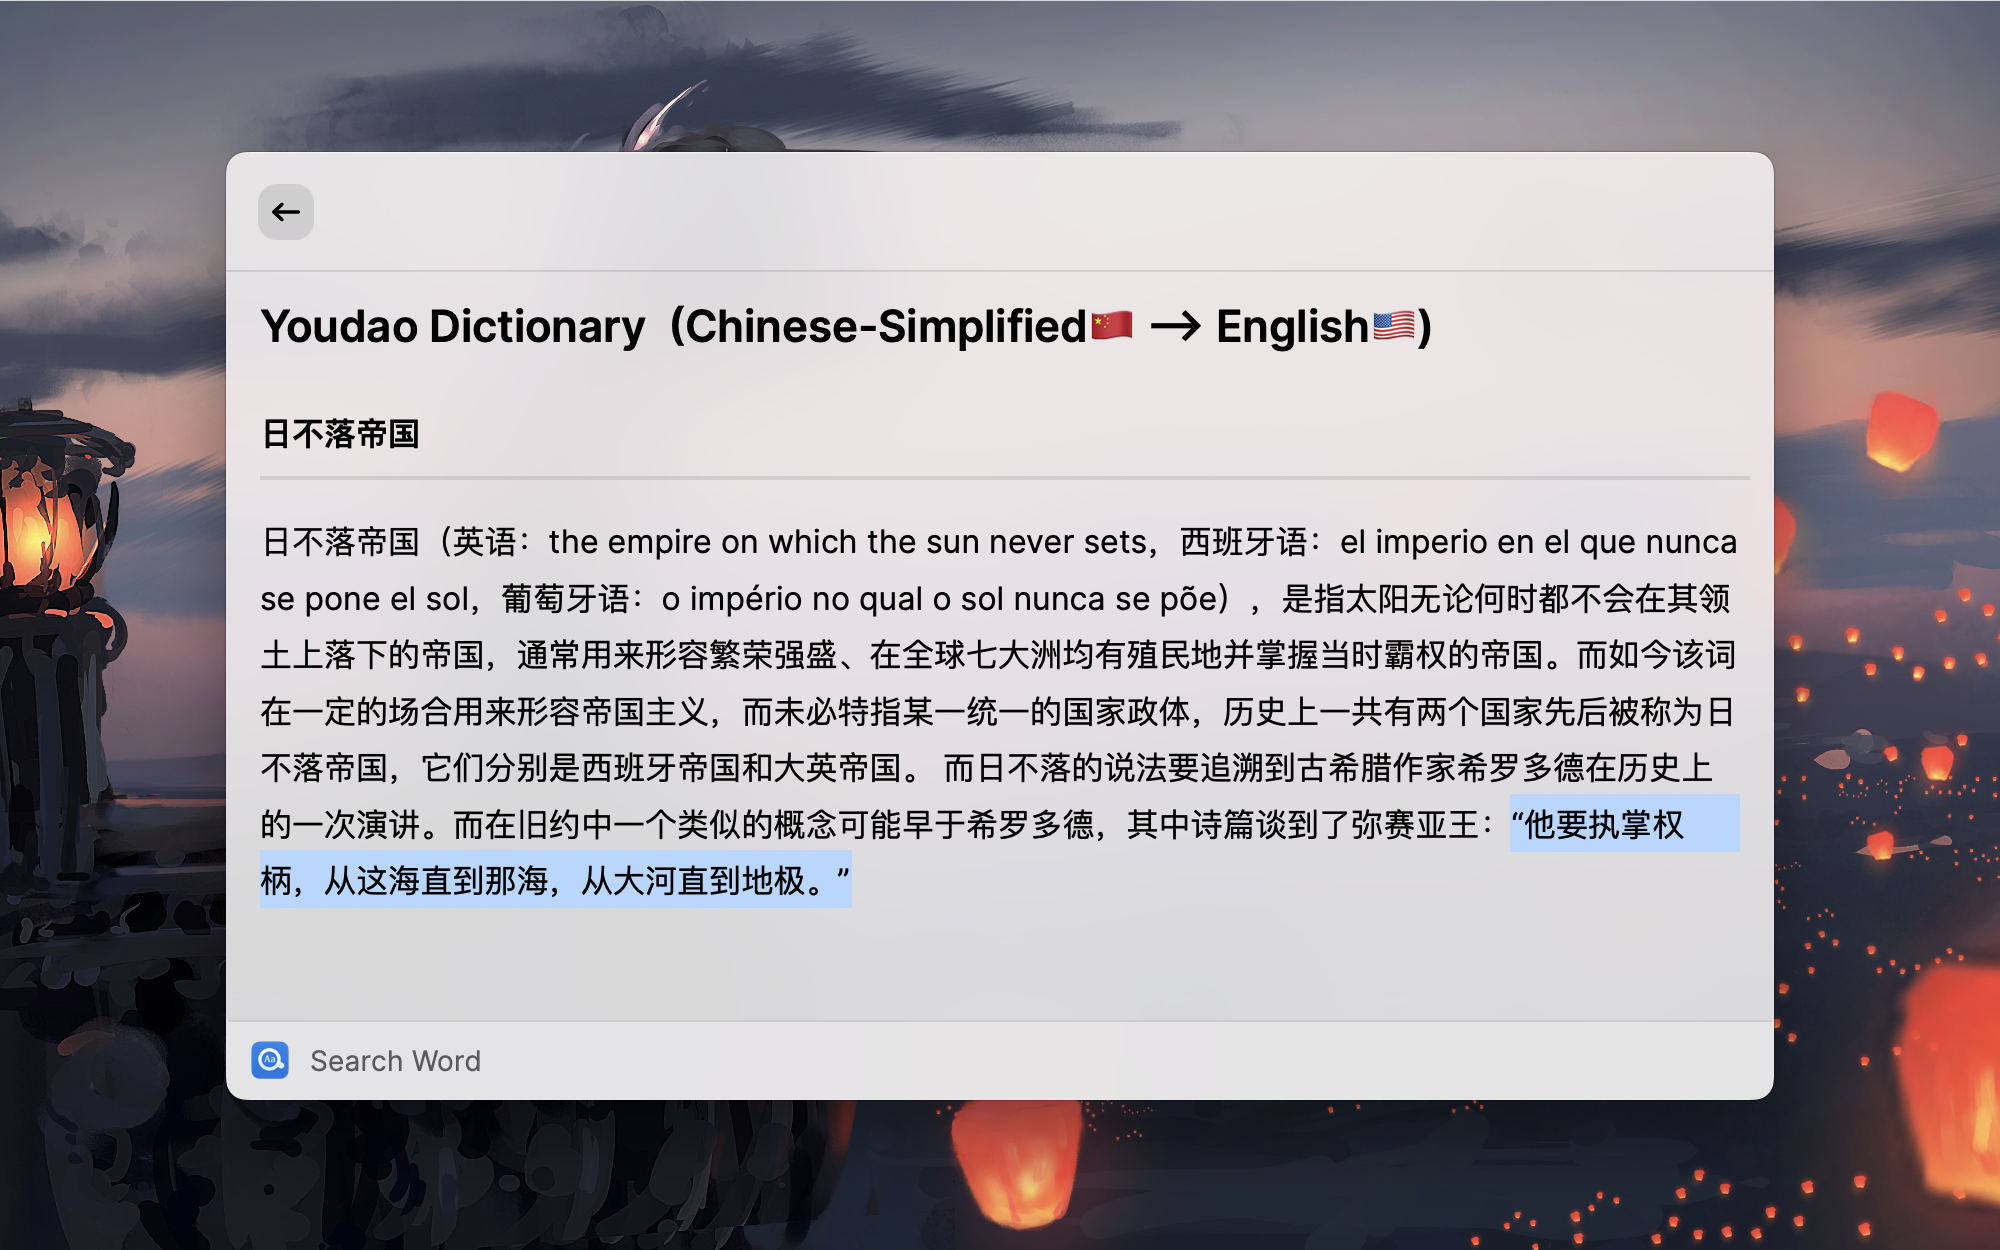
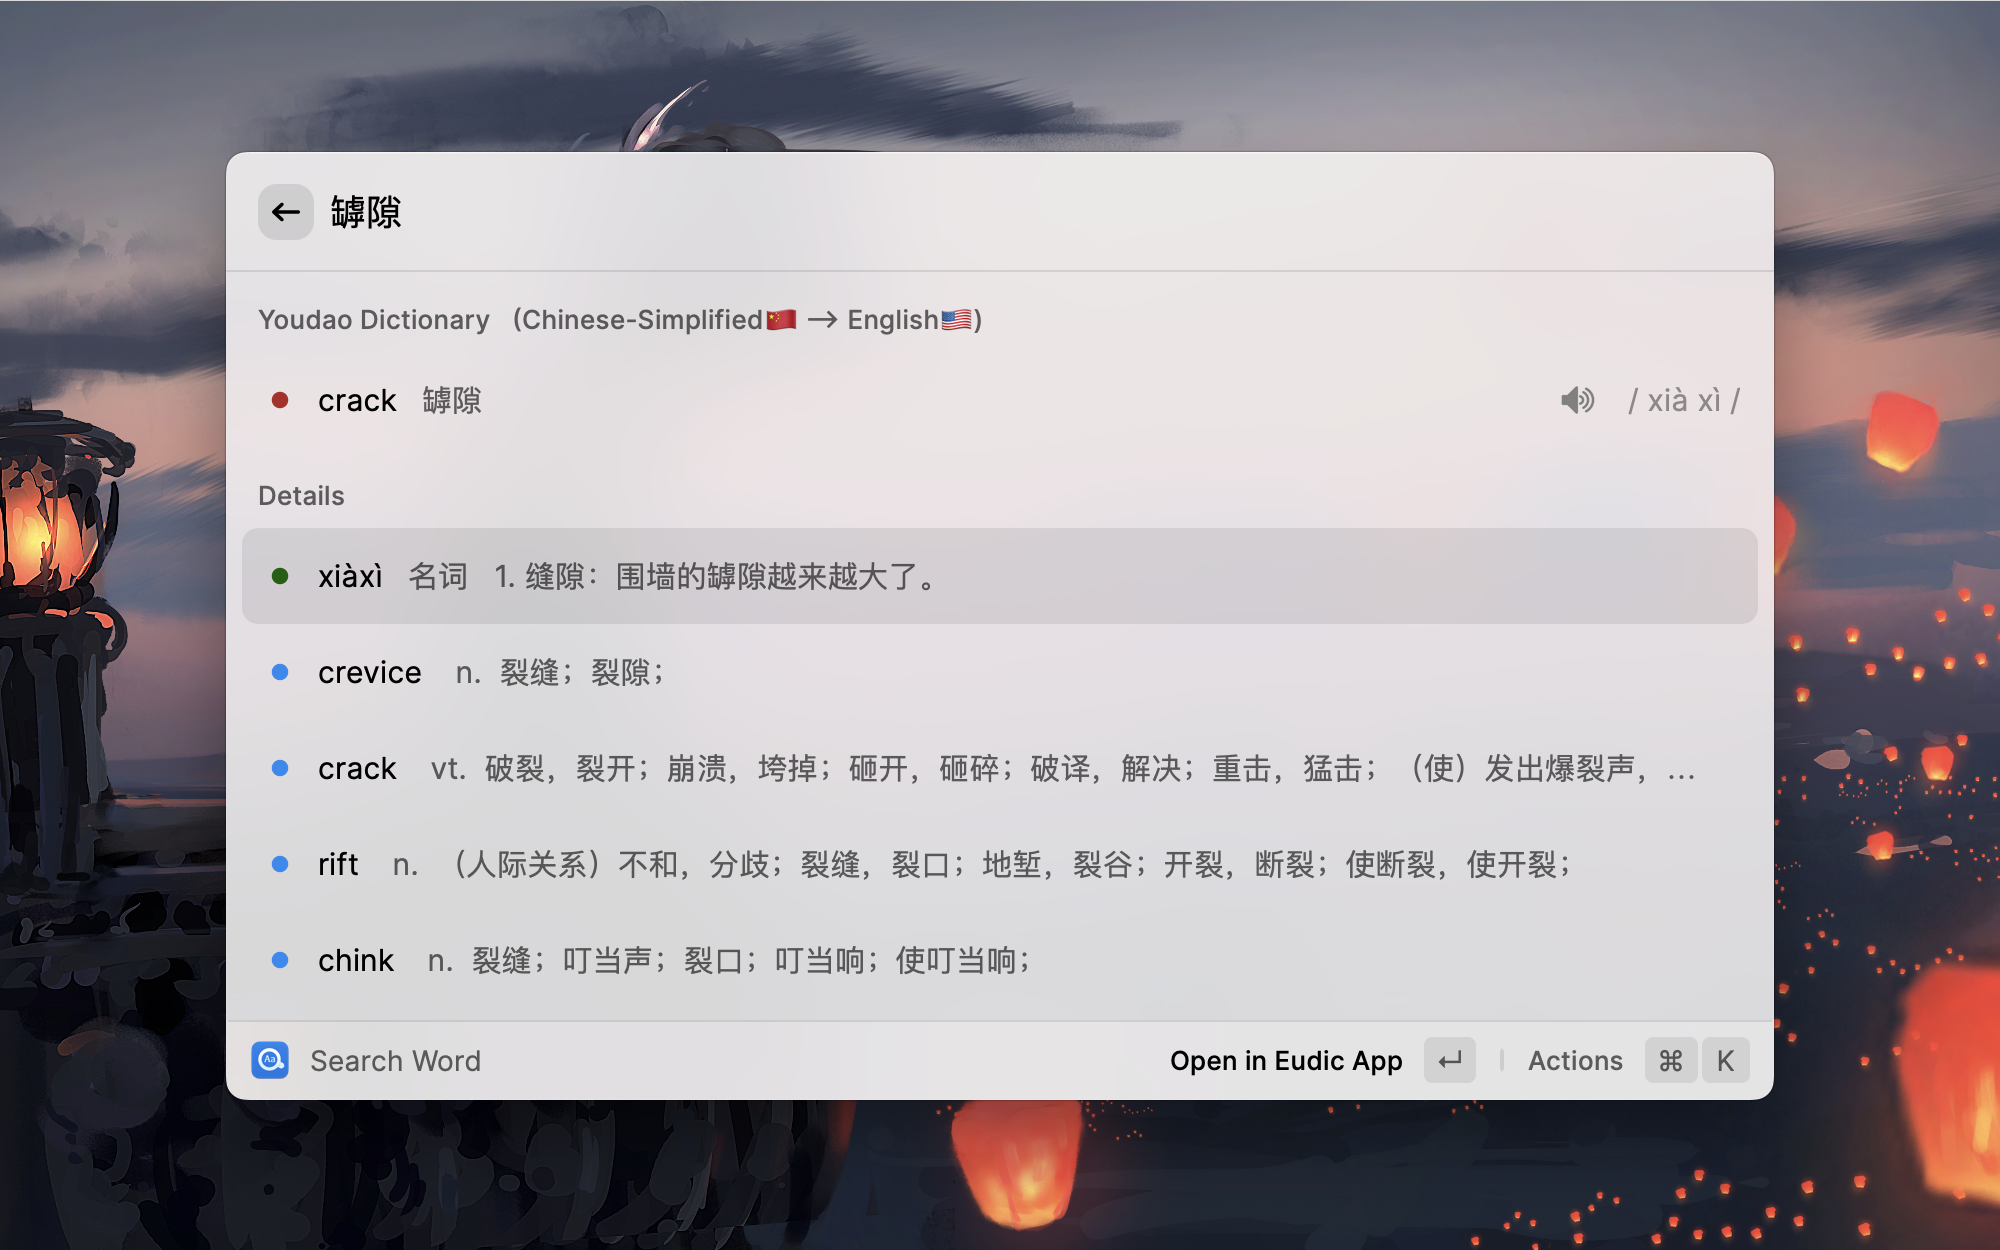
feat: support arguments for Easydict

diff --git a/src/easydict.tsx b/src/easydict.tsx
@@ -2,7 +2,7 @@
  * @author: tisfeng
  * @createTime: 2022-06-23 14:19
  * @lastEditor: tisfeng
- * @lastEditTime: 2022-10-12 22:24
+ * @lastEditTime: 2022-10-15 10:57
  * @fileName: easydict.tsx
  *
  * Copyright (c) 2022 by tisfeng, All Rights Reserved.
@@ -23,11 +23,17 @@ console.log(`enter easydict.tsx`);
 
 const dataManager = new DataManager();
 
-export default function () {
+interface EasydictArguments {
+  queryText: string;
+}
+
+export default function (props: { arguments?: EasydictArguments }) {
   const isConflict = checkIfPreferredLanguagesConflict();
   if (isConflict) {
     return isConflict;
   }
+
+  const queryText = props.arguments ? trimTextLength(props.arguments.queryText) : undefined;
 
   const [isLoadingState, setLoadingState] = useState<boolean>(false);
   const [isShowingDetail, setIsShowingDetail] = useState<boolean>(false);
@@ -40,7 +46,9 @@ export default function () {
   });
 
   /**
-   * use to display input text
+   * Use to display input text.
+   *
+   * * Note: default value should be undefined, it used to call setup function.
    */
   const [inputText, setInputText] = useState<string>();
   /**
@@ -90,30 +98,48 @@ export default function () {
    */
   function setup() {
     console.log(`setup when extension is activated.`);
+
+    if (queryText?.length) {
+      console.log(`---> arguments queryText: ${queryText}`);
+    }
+
     const startTime = Date.now();
 
-    // In this case, must wait for the proxy to be configured before request.
-    if (myPreferences.enableAutomaticQuerySelectedText && myPreferences.enableSystemProxy) {
-      Promise.all([getSelectedText(), configAxiosProxy()])
-        .then(([selectedText]) => {
-          console.log(`after config proxy, getSelectedText: ${selectedText}`);
-          console.log(`config proxy and get text cost time: ${Date.now() - startTime} ms`);
-          updateInputTextAndQueryText(trimTextLength(selectedText), false);
-        })
-        .catch((error) => {
-          console.error(`set up, config proxy error: ${error}`);
-          querySelecedtText().then(() => {
-            console.log(`after query selected text`);
-            delayGetSystemProxy();
-          });
+    // If enabled system proxy, we need to wait for the system proxy to be ready.
+    if (myPreferences.enableSystemProxy) {
+      // If has arguments, use arguments text as input text first.
+      if (queryText?.length) {
+        configAxiosProxy().then(() => {
+          console.log(`after config proxy`);
+          updateInputTextAndQueryText(queryText, false);
         });
-    } else if (myPreferences.enableAutomaticQuerySelectedText) {
-      querySelecedtText().then(() => {
-        console.log(`after query selected text`);
-        delayGetSystemProxy();
-      });
-    } else if (myPreferences.enableSystemProxy) {
-      configAxiosProxy();
+      } else if (myPreferences.enableAutomaticQuerySelectedText) {
+        Promise.all([getSelectedText(), configAxiosProxy()])
+          .then(([selectedText]) => {
+            console.log(`after config proxy, getSelectedText: ${selectedText}`);
+            console.log(`config proxy and get text cost time: ${Date.now() - startTime} ms`);
+            updateInputTextAndQueryText(trimTextLength(selectedText), false);
+          })
+          .catch((error) => {
+            console.error(`set up, config proxy error: ${error}`);
+            querySelecedtText().then(() => {
+              console.log(`after query selected text`);
+              delayGetSystemProxy();
+            });
+          });
+      } else {
+        configAxiosProxy();
+      }
+    } else {
+      if (queryText?.length) {
+        updateInputTextAndQueryText(queryText, false);
+      } else if (myPreferences.enableAutomaticQuerySelectedText) {
+        querySelecedtText().then(() => {
+          console.log(`after query selected text`);
+        });
+      }
+
+      delayGetSystemProxy();
     }
 
     checkIfInstalledEudic().then((isInstalled) => {
@@ -133,8 +159,8 @@ export default function () {
           updateInputTextAndQueryText(selectedText, false);
           resolve();
         })
-        .catch((e) => {
-          console.log(`getSelectedText error: ${e}`);
+        .catch((error) => {
+          console.log(`getSelectedText error: ${error}`);
           resolve();
         });
     });
@@ -146,9 +172,9 @@ export default function () {
    * Todo: move it to dataManager.
    */
   const updateSelectedTargetLanguageItem = (selectedLanguageItem: LanguageItem) => {
-    console.log(
-      `selected language: ${selectedLanguageItem.youdaoLangCode}, current target language: ${userSelectedTargetLanguageItem.youdaoLangCode}`
-    );
+    console.log(`selected language: ${selectedLanguageItem.youdaoLangCode}`);
+    console.log(`current target language: ${userSelectedTargetLanguageItem.youdaoLangCode}`);
+
     if (selectedLanguageItem.youdaoLangCode === userSelectedTargetLanguageItem.youdaoLangCode) {
       return;
     }

diff --git a/src/axiosConfig.ts b/src/axiosConfig.ts
@@ -2,7 +2,7 @@
  * @author: tisfeng
  * @createTime: 2022-06-26 11:13
  * @lastEditor: tisfeng
- * @lastEditTime: 2022-10-13 11:05
+ * @lastEditTime: 2022-10-15 10:54
  * @fileName: axiosConfig.ts
  *
  * Copyright (c) 2022 by tisfeng, All Rights Reserved.

diff --git a/src/components.tsx b/src/components.tsx
@@ -2,7 +2,7 @@
  * @author: tisfeng
  * @createTime: 2022-06-26 11:13
  * @lastEditor: tisfeng
- * @lastEditTime: 2022-10-13 23:26
+ * @lastEditTime: 2022-10-15 10:57
  * @fileName: components.tsx
  *
  * Copyright (c) 2022 by tisfeng, All Rights Reserved.

diff --git a/docs/README_ZH.md b/docs/README_ZH.md
@@ -16,7 +16,7 @@
 
 `Easydict` 是一个简洁易用的 Raycast 词典扩展，可轻松优雅地查找单词或翻译文本，特别针对英语和中文单词进行了优化。开箱即用，能自动识别输入文本语言，目前支持 [Linguee](https://www.linguee.com/) 和[有道词典](https://www.youdao.com/)查询，支持 🍎**苹果系统翻译**，[DeepL](https://www.deepl.com/translator)，[谷歌](https://translate.google.com)，[Bing](https://www.bing.com/translator), [百度](https://fanyi.baidu.com/)，[腾讯](https://fanyi.qq.com/)，[火山](https://translate.volcengine.com/translate)，[有道](https://fanyi.youdao.com/)和[彩云翻译](https://fanyi.caiyunapp.com/#/)。
 
-![easydict-1-1664438822](https://raw.githubusercontent.com/tisfeng/ImageBed/main/uPic/easydict-1-1664438822-1664438852.png)
+![easydict-1-1665794507](https://raw.githubusercontent.com/tisfeng/ImageBed/main/uPic/easydict-1-1665794507.png)
 
 ## 功能
 
@@ -57,7 +57,7 @@
 
 ### [Linguee 词典](https://www.linguee.com/)：英语 <--> 中文
 
-![easydict-2-1662904408](https://raw.githubusercontent.com/tisfeng/ImageBed/main/uPic/easydict-2-1662904408-20220911215421566-1662904461.png)
+![easydict-3-1665794533](https://raw.githubusercontent.com/tisfeng/ImageBed/main/uPic/easydict-3-1665794533.png)
 
 #### [float](https://www.linguee.com/english-chinese/search?query=float)
 
